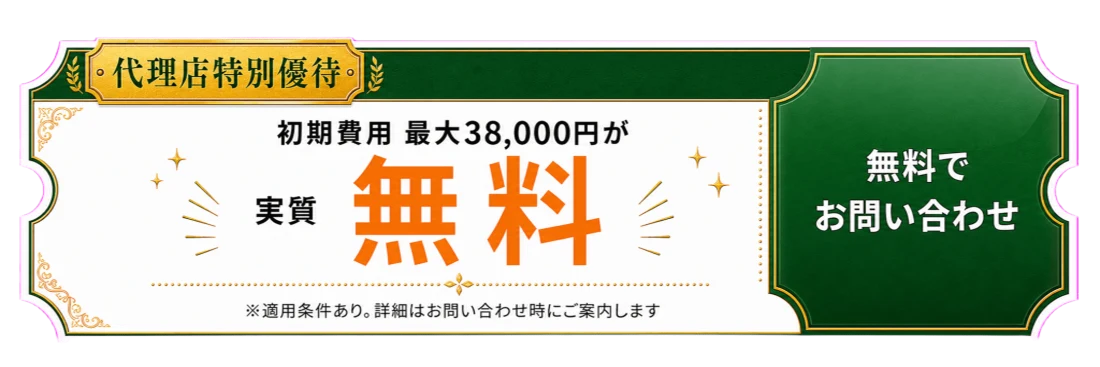
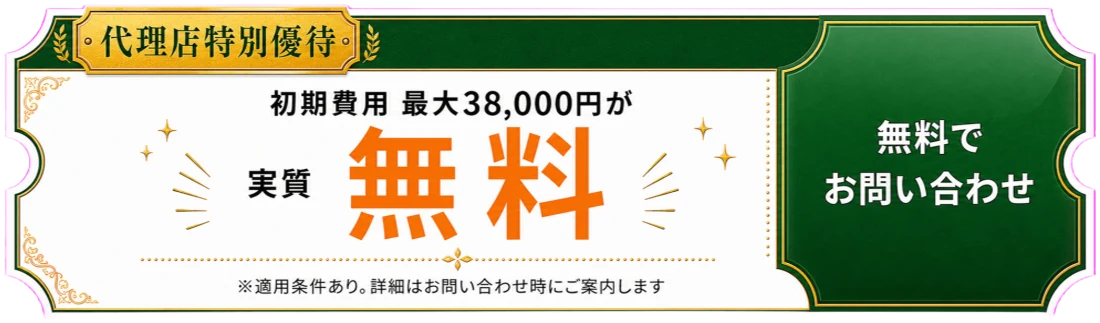
モバイルフローティング画像の余分な余白・ぼやけた枠を除去
PC右下フローティング（t4）と同じ問題：画像自体の透明な余白に
コンテナのborder-radius・box-shadowが掛かり、ぼやけた枠のように
見えていた。画像をチケット部分だけにトリミングし、コンテナ側の
角丸・影を撤去。

diff --git a/08.banner/lp-test-0815-t1/index.html b/08.banner/lp-test-0815-t1/index.html
@@ -867,9 +867,6 @@ a{text-decoration:none;color:inherit}
     position:fixed;
     left:12px; right:12px;
     z-index:99991;
-    border-radius:14px;
-    overflow:hidden;
-    box-shadow:0 6px 24px rgba(0,0,0,.28);
     opacity:0;
     transform:translateY(12px);
     pointer-events:none;
@@ -2995,7 +2992,7 @@ a{text-decoration:none;color:inherit}
 <div class="cp-mfloat" id="cp-mfloat">
   <button class="cp-mfloat-close" id="cp-mfloat-close-btn" aria-label="閉じる">✕</button>
   <a href="campaign-check/">
-    <img src="images/campaign/banner-0815-t1.webp" alt="初期費用最大38,000円が実質無料になるUber Eats出店キャンペーン" loading="lazy" decoding="async" width="1100" height="497">
+    <img src="images/campaign/banner-0815-t1.webp" alt="初期費用最大38,000円が実質無料になるUber Eats出店キャンペーン" loading="lazy" decoding="async" width="1100" height="357">
   </a>
 </div>
 <script>

diff --git a/08.banner/lp-test-0815-t2/index.html b/08.banner/lp-test-0815-t2/index.html
@@ -867,9 +867,6 @@ a{text-decoration:none;color:inherit}
     position:fixed;
     left:12px; right:12px;
     z-index:99991;
-    border-radius:14px;
-    overflow:hidden;
-    box-shadow:0 6px 24px rgba(0,0,0,.28);
     opacity:0;
     transform:translateY(12px);
     pointer-events:none;
@@ -2995,7 +2992,7 @@ a{text-decoration:none;color:inherit}
 <div class="cp-mfloat" id="cp-mfloat">
   <button class="cp-mfloat-close" id="cp-mfloat-close-btn" aria-label="閉じる">✕</button>
   <a href="campaign-check/">
-    <img src="images/campaign/banner-0815-t2.webp" alt="初期費用最大38,000円が実質無料になるUber Eats出店キャンペーン" loading="lazy" decoding="async" width="1100" height="367">
+    <img src="images/campaign/banner-0815-t2.webp" alt="初期費用最大38,000円が実質無料になるUber Eats出店キャンペーン" loading="lazy" decoding="async" width="1100" height="323">
   </a>
 </div>
 <script>
